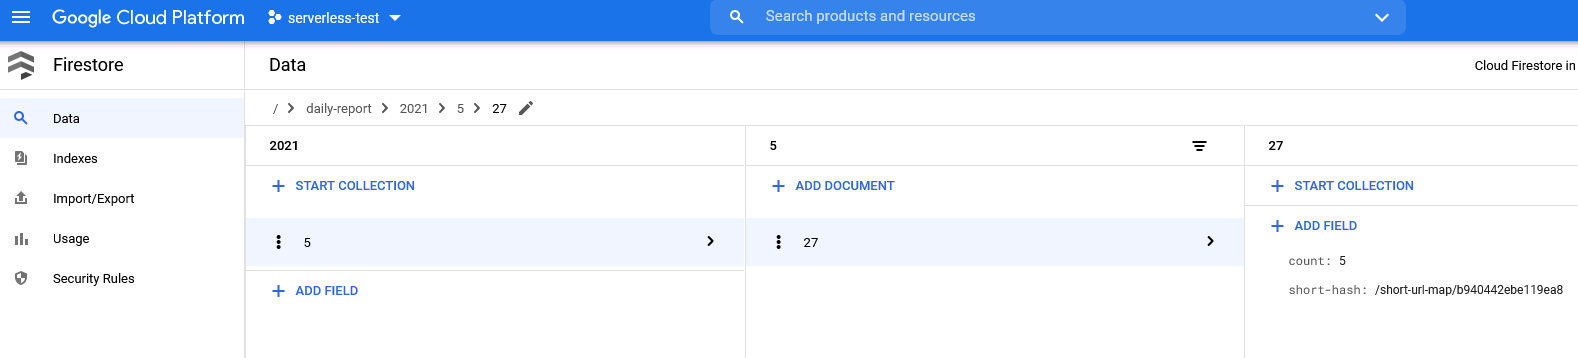
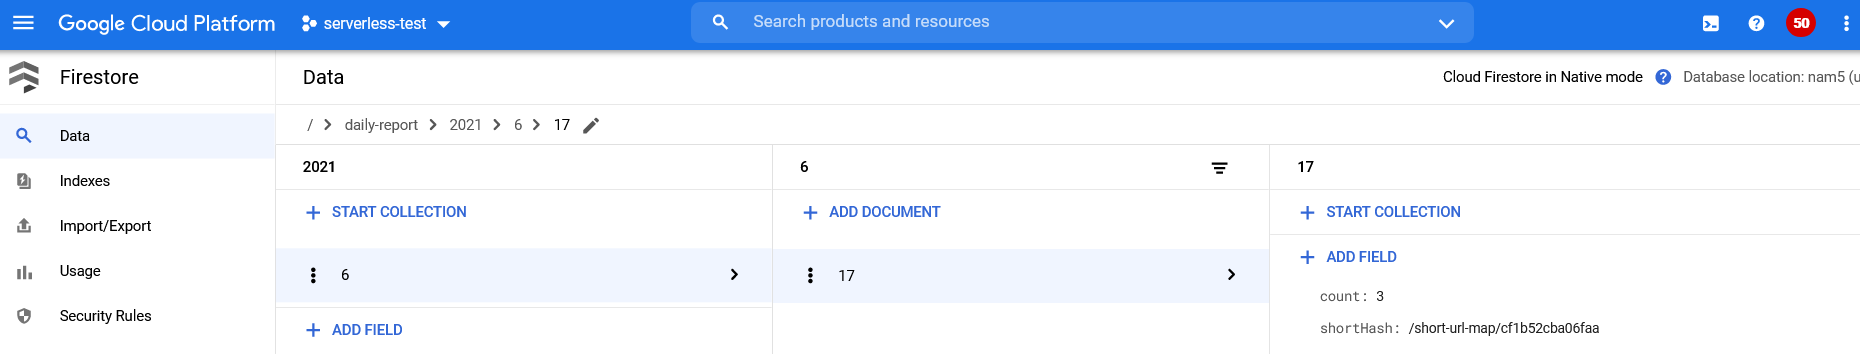
Modify api format

diff --git a/shorturlsourcefunction/shorturlsourcefunction.go b/shorturlsourcefunction/shorturlsourcefunction.go
@@ -81,10 +81,10 @@ func ShortUrlSource(ctx context.Context, m PubSubMessage) error {
 	// store access
 	accessID := fmt.Sprintf("%x", getAccessId(m.Data))
 	access := map[string]interface{}{
-		"datetime":   datetime,
-		"source-ip":  record["SourceIp"],
-		"agent":      record["Agent"],
-		"short-hash": client.Doc(fmt.Sprintf("short-url-map/%s", record["ShortHash"])),
+		"datetime":  datetime,
+		"sourceIp":  record["SourceIp"],
+		"agent":     record["Agent"],
+		"shortHash": client.Doc(fmt.Sprintf("short-url-map/%s", record["ShortHash"])),
 	}
 	log.Printf("ShortUrlSource: access id: %v, data: %v", accessID, access)
 	if _, err := client.Collection("access").Doc(accessID).Set(ctx, access); err != nil {
@@ -96,7 +96,7 @@ func ShortUrlSource(ctx context.Context, m PubSubMessage) error {
 	dateStr := fmt.Sprintf("%d/%d/%d", datetime.Year(), datetime.Month(), datetime.Day())
 	if _, err := client.Collection("daily-report").Doc(dateStr).Get(ctx); err != nil {
 		dailyReport := map[string]interface{}{
-			"short-hash": client.Doc(fmt.Sprintf("short-url-map/%s", record["ShortHash"])),
+			"shortHash": client.Doc(fmt.Sprintf("short-url-map/%s", record["ShortHash"])),
 		}
 		if _, err := client.Collection("daily-report").Doc(dateStr).Set(ctx, dailyReport); err != nil {
 			log.Printf("ShortUrlSource: init daily report to firebase error: %v", err)
